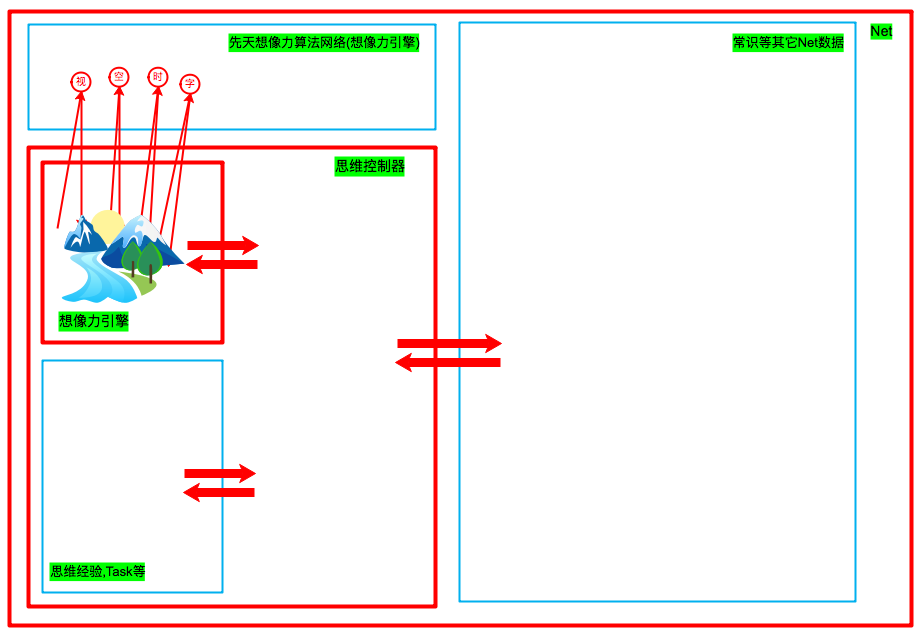
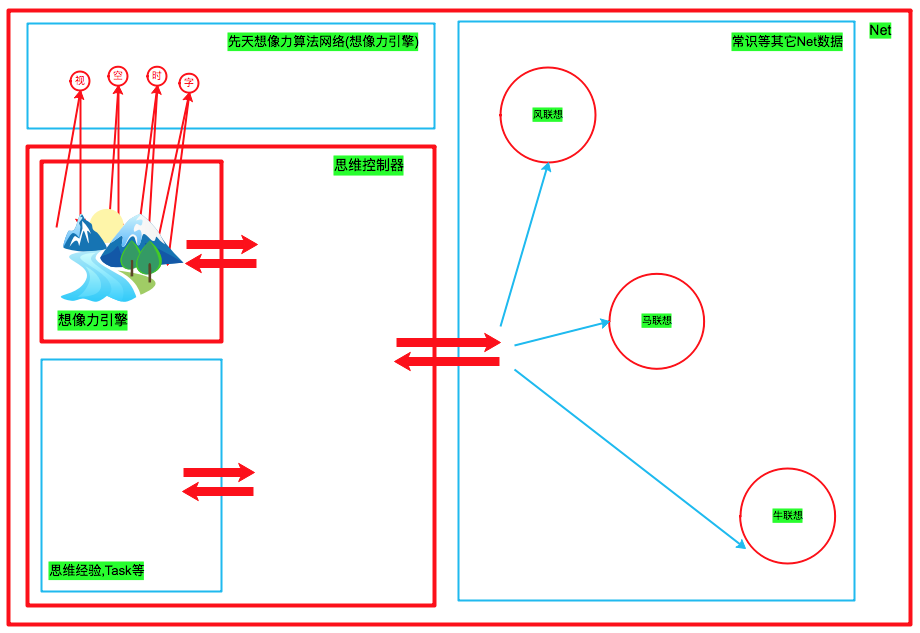
none

diff --git a/目录.md b/目录.md
@@ -6,7 +6,7 @@
 
 - ## 手写笔记
 
-  - [Note9](手写笔记/Note9.md)<font size="1" color="#888888"> 修改时间:12月01日 09:34:44</font>
+  - [Note9](手写笔记/Note9.md)<font size="1" color="#888888"> 修改时间:12月01日 14:02:54</font>
   - [Note8](手写笔记/Note8.md)<font size="1" color="#888888"> 修改时间:11月28日 08:44:21</font>
   - [Note7](手写笔记/Note7.md)<font size="1" color="#888888"> 修改时间:11月10日 07:56:50</font>
   - [Note6](手写笔记/Note6.md)<font size="1" color="#888888"> 修改时间:10月23日 08:19:14</font>
@@ -209,6 +209,7 @@
   * [INPUT_注意力](iphone备忘录/INPUT_注意力.md)<font size="1" color="#888888"> 修改时间:07月26日 13:17:10</font>
   * [行为与能力](iphone备忘录/行为与能力.md)<font size="1" color="#888888"> 修改时间:07月26日 13:19:43</font>
   * [为推动人工智能的发展所作的思考](iphone备忘录/为推动人工智能的发展所作的思考.md)<font size="1" color="#888888"> 修改时间:07月26日 13:27:34</font>
+
 
 
 

diff --git a/手写笔记/Note9.md b/手写笔记/Note9.md
@@ -342,14 +342,17 @@
 | 软件架构设计 >> |
 | --- |
 
-|  |  |
+| title | desc |
 | --- | --- |
+| 概念 | 想像力是意识自己在看自己的思维产生的影像,这种思维方式可以让A的下一个事务是Z,完全不相干的数据在AINet中关联是很弱很远的,只有这种方式可以让其将这样的数据被读到; |
+| 技术实现 | 想像力不必使一切与现实渲染一致,但保持一致可以使思维与行动更加一体,所以还是要尽量(目的与性能之合)设计一致; | 
 
 | 软件架构示图 >> |
 | --- |
 
 | ![](assets/16.png) |
 | --- |
+| 蓝色箭头:事务管理的每个事务因为`想像力`而依次联想到`风马牛不相及`的数据; |
 
 
 
